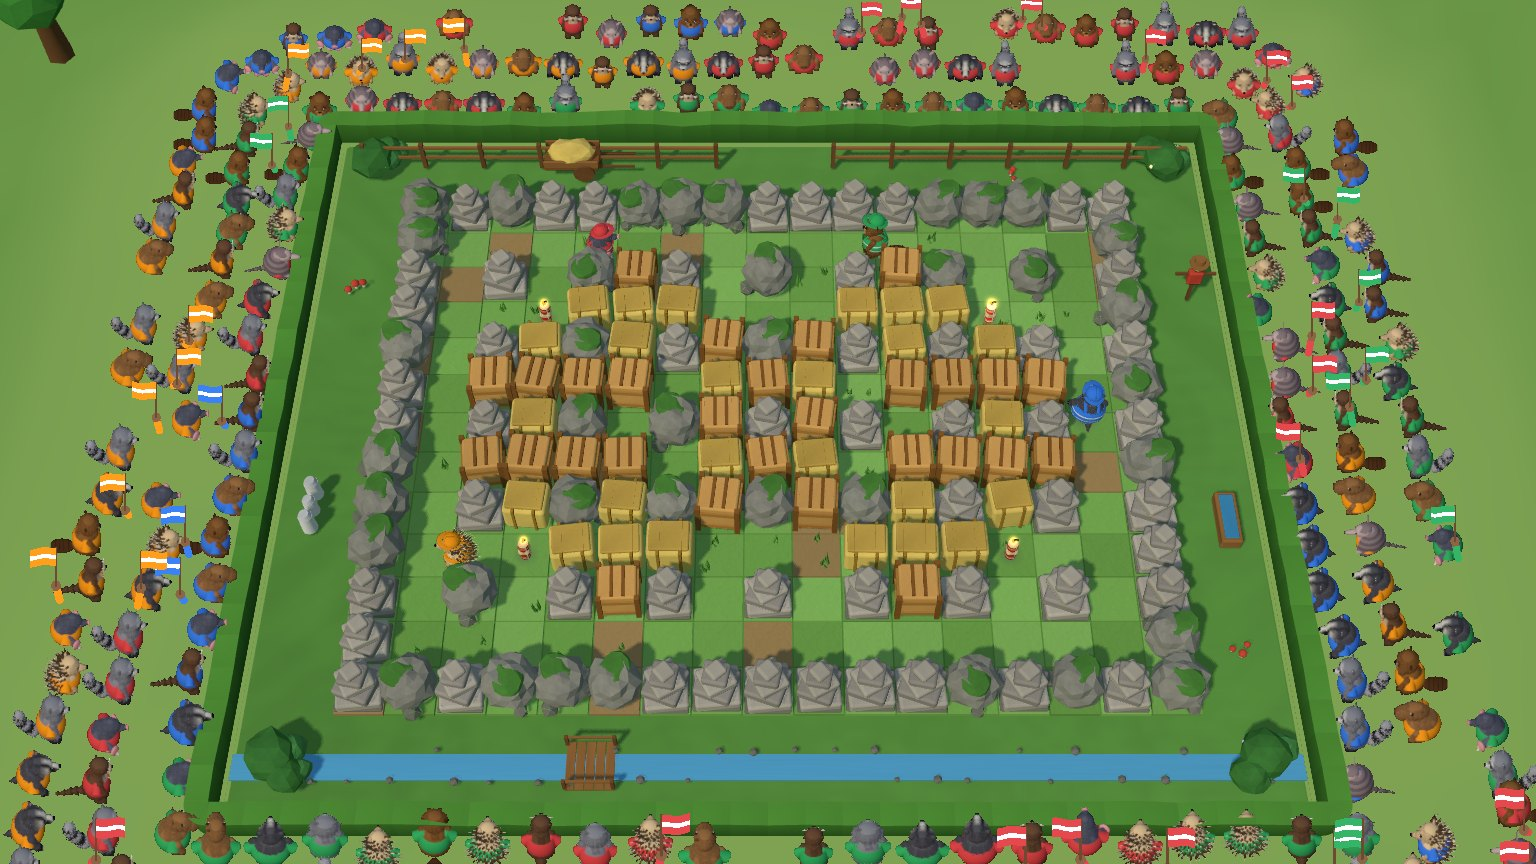
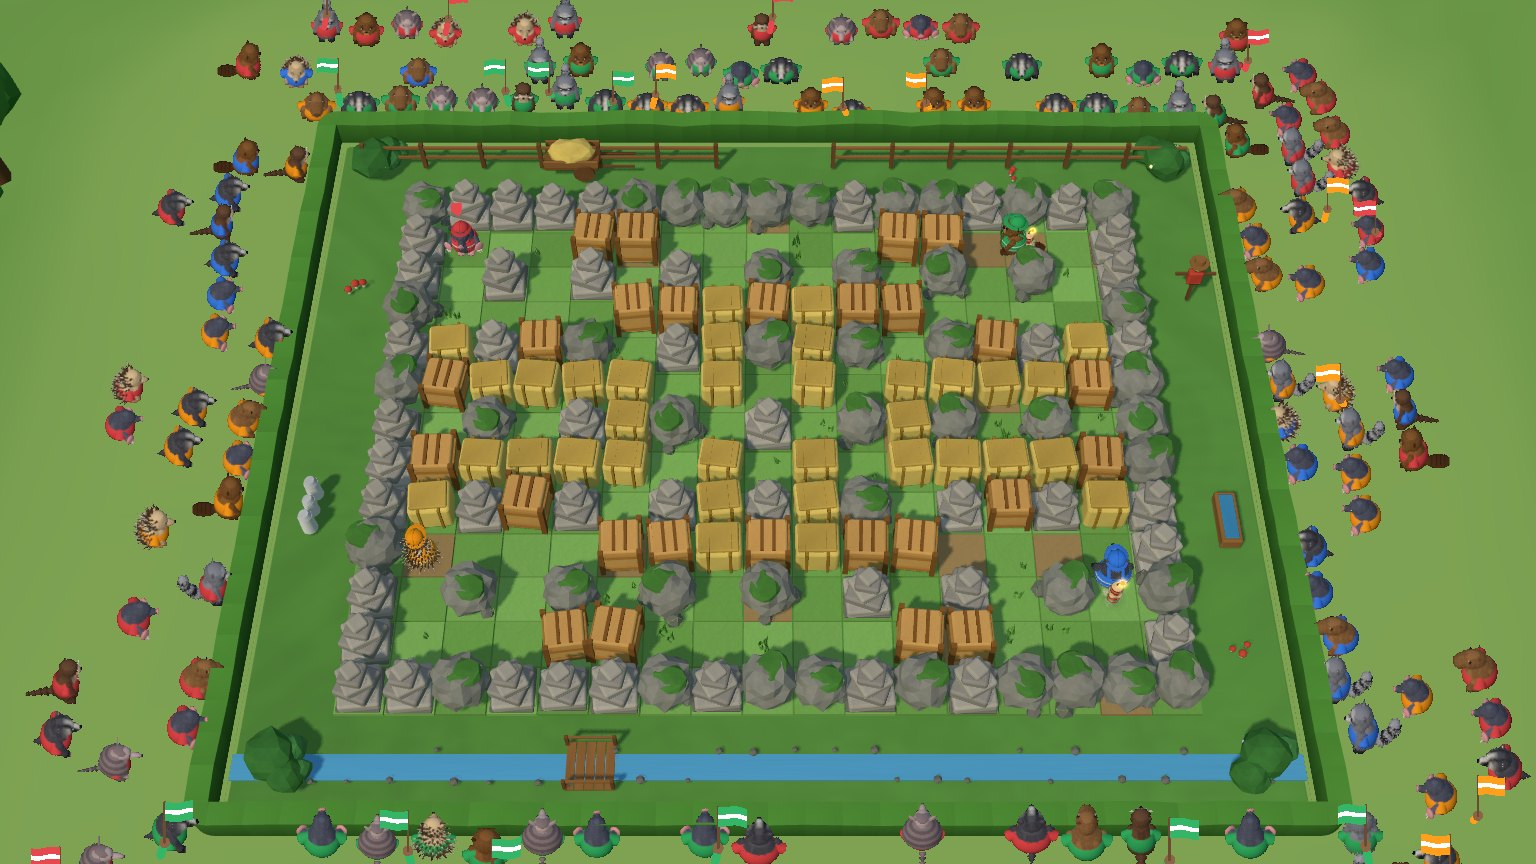
Kaboom: thinner Green Valley crowd
- CrowdLayout.fill thins a level's crowd; Valley seats about 60% of the spots
- Retake the Valley screenshot

diff --git a/src/games/kaboom/render/themes/valley.ts b/src/games/kaboom/render/themes/valley.ts
@@ -795,11 +795,12 @@ export const VALLEY_THEME: LevelTheme = {
   decor,
   platformExtras: (ctx) => [tufts(ctx)],
   scenery,
-  // the crowd stands on the flat meadow: three loose rows right behind the hedge
+  // the crowd stands on the flat meadow: three loose rows right behind the hedge, a thin crowd
   crowd: {
     ring: ringPoints,
     height: () => GROUND_Y,
     tiers: 3,
     rowD: (t) => 0.8 + 1.3 * t,
+    fill: 0.62,
   },
 };

diff --git a/src/games/kaboom/render/themes/theme.ts b/src/games/kaboom/render/themes/theme.ts
@@ -51,6 +51,8 @@ export interface CrowdLayout {
   tiers?: number;
   /** Offset of row `t` from the floor. Default: the middle of terrace `t` of the bowl. */
   rowD?(t: number): number;
+  /** Share of the seats that are taken, on top of each row's own fill. Default: 1. */
+  fill?: number;
   /** Is there a seat at fractional ring-point index `i`? Default: everywhere. */
   seat?(i: number, n: number, hx: number, hz: number): boolean;
 }

diff --git a/src/games/kaboom/render/crowd.ts b/src/games/kaboom/render/crowd.ts
@@ -166,7 +166,7 @@ export class Crowd {
         const len = Math.hypot(bx - ax, bz - az);
         let s = carry;
         for (; s < len; s += spacing) {
-          if (rng.next() > fill[t]) continue;
+          if (rng.next() > fill[t] * (layout.fill ?? 1)) continue;
           if (layout.seat && !layout.seat(i + s / len, n, hx, hz)) continue;
           const k = s / len;
           let x = ax + (bx - ax) * k;

diff --git a/src/games/kaboom/DETAILS.md b/src/games/kaboom/DETAILS.md
@@ -93,7 +93,7 @@ only with more than one level, and `sanitizeSettings`). Pick it in the setup men
 
 - **What a theme holds**: sky, light, `fx` tint (dust / splinter / scorch colours as uniforms of the shared particle shaders), warning colour,
   `fall`, tile / hard-block / crate / floor / decor geometry, `scenery` (static things: bowl, water, boats, trees; `update`, `ripple`,
-  `dispose`), `crowd` (`CrowdLayout`: ring, height, optional `tiers` / `rowD` / `seat` mask) and an optional `motion` (the platform's bob).
+  `dispose`), `crowd` (`CrowdLayout`: ring, height, optional `tiers` / `rowD` / `fill` / `seat` mask) and an optional `motion` (the platform's bob).
   `Arena.group` is the platform, `Arena.scenery` stays put. Geometry is built once per page (`themes/cache.ts`), never per instance or round.
 - **Sea Deck sudden death** reuses `blockFell`: `Arena.sinkTile` shakes the tile `SINK_DELAY_S` = 0.2 s, drops and tilts it, scales it
   away under the water; the splash (`Fx.splash`, `Sea.ripple`) comes `TILE_SPLASH_S` = 0.6 s after the event. A crate on the cell
